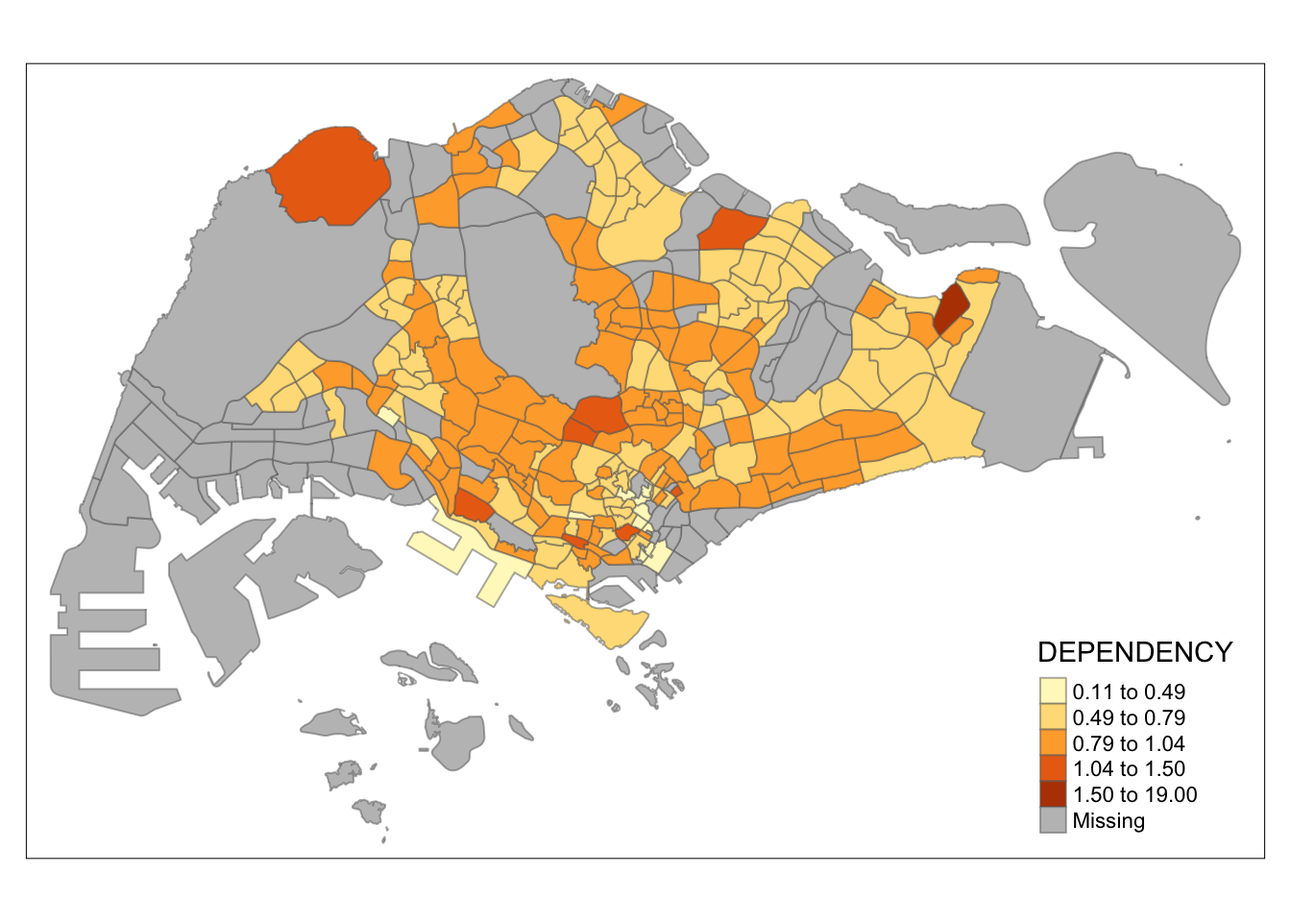
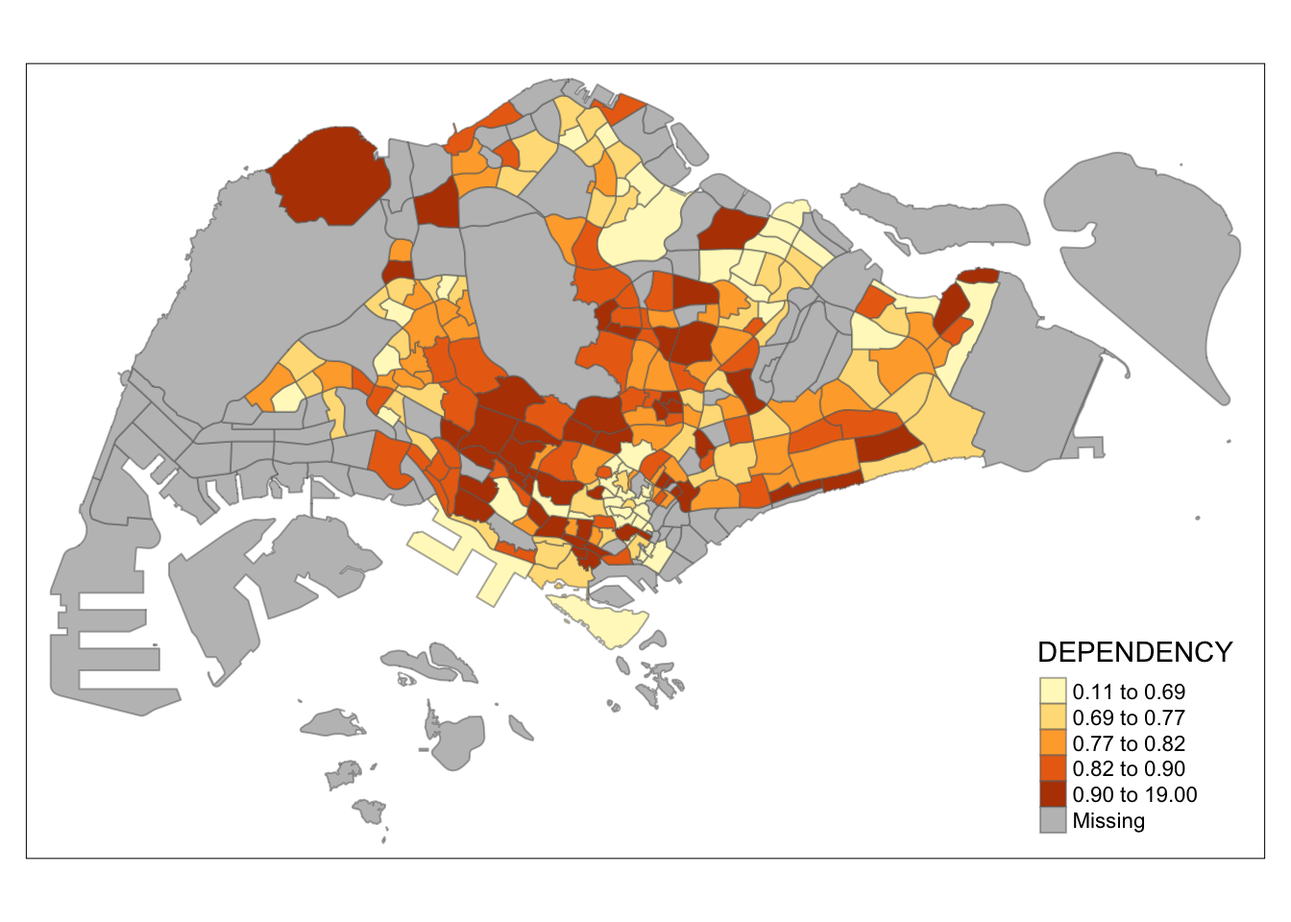
Multiple choropleth maps

Changed region(s): [[0.1875, 0.0938, 0.7812, 0.7188], [0.8125, 0.7812, 0.9375, 0.875]]

diff --git a/_site/Topics/HO10/HO10.html b/_site/Topics/HO10/HO10.html
@@ -253,6 +253,9 @@ pre > code.sourceCode > span > a:first-child::before { text-decoration: underlin
   <ul class="collapse">
   <li><a href="#qtm" id="toc-qtm" class="nav-link" data-scroll-target="#qtm">qtm()</a></li>
   <li><a href="#tmap" id="toc-tmap" class="nav-link" data-scroll-target="#tmap">tmap()</a></li>
+  <li><a href="#breaks" id="toc-breaks" class="nav-link" data-scroll-target="#breaks">Breaks</a></li>
+  <li><a href="#multiple-choropleth-plots" id="toc-multiple-choropleth-plots" class="nav-link" data-scroll-target="#multiple-choropleth-plots">Multiple Choropleth Plots</a></li>
+  <li><a href="#group-by-variable" id="toc-group-by-variable" class="nav-link" data-scroll-target="#group-by-variable">Group-by Variable</a></li>
   </ul></li>
   </ul>
 </nav>
@@ -286,7 +289,7 @@ pre > code.sourceCode > span > a:first-child::before { text-decoration: underlin
     <div>
     <div class="quarto-title-meta-heading">Modified</div>
     <div class="quarto-title-meta-contents">
-      <p class="date-modified">February 27, 2024</p>
+      <p class="date-modified">February 28, 2024</p>
     </div>
   </div>
     
@@ -569,11 +572,12 @@ Load Point
 <h2 class="anchored" data-anchor-id="tmap">tmap()</h2>
 <p>The basic building block of tmap is <code>tm_shape()</code> followed by the layer elements <code>tm_shape()</code> to define the input data and <code>tm_polygons()</code> to draw the planning subzone polygons.</p>
 <p>Note that <code>tm_polygons()</code> is a wrapper of <code>tm_fill()</code> and <code>tm_border()</code>. <code>tm_fill()</code> shades the polygons by using the default colour scheme and <code>tm_borders()</code> adds the borders of the shapefile onto the choropleth map where the <code>alpha</code> argument is used to define transparency number between 0 (totally transparent) and 1 (default; not transparent).</p>
-<p>tmap provides a total ten data classification methods, namely: fixed, sd, equal, pretty , quantile, kmeans, hclust, bclust, fisher, and jenks. The default interval binning used to draw the choropleth map is called “pretty” and the default colour scheme is YlOrRd of ColorBrewer. By default, Missing value will be shaded in grey.</p>
+<p>tmap provides a total ten data classification methods, namely: fixed, sd, equal, pretty, quantile, kmeans, hclust, bclust, fisher, and jenks. The default interval binning used to draw the choropleth map is <strong>pretty</strong> and the default colour scheme is YlOrRd of ColorBrewer. By default, Missing value will be shaded in grey.</p>
 <div class="tabset-margin-container"></div><div class="panel-tabset">
-<ul class="nav nav-tabs" role="tablist"><li class="nav-item" role="presentation"><a class="nav-link active" id="tabset-3-1-tab" data-bs-toggle="tab" data-bs-target="#tabset-3-1" role="tab" aria-controls="tabset-3-1" aria-selected="true">pretty</a></li></ul>
+<ul class="nav nav-tabs" role="tablist"><li class="nav-item" role="presentation"><a class="nav-link active" id="tabset-3-1-tab" data-bs-toggle="tab" data-bs-target="#tabset-3-1" role="tab" aria-controls="tabset-3-1" aria-selected="true">pretty</a></li><li class="nav-item" role="presentation"><a class="nav-link" id="tabset-3-2-tab" data-bs-toggle="tab" data-bs-target="#tabset-3-2" role="tab" aria-controls="tabset-3-2" aria-selected="false">quantile</a></li><li class="nav-item" role="presentation"><a class="nav-link" id="tabset-3-3-tab" data-bs-toggle="tab" data-bs-target="#tabset-3-3" role="tab" aria-controls="tabset-3-3" aria-selected="false">kmeans</a></li><li class="nav-item" role="presentation"><a class="nav-link" id="tabset-3-4-tab" data-bs-toggle="tab" data-bs-target="#tabset-3-4" role="tab" aria-controls="tabset-3-4" aria-selected="false">bclust</a></li><li class="nav-item" role="presentation"><a class="nav-link" id="tabset-3-5-tab" data-bs-toggle="tab" data-bs-target="#tabset-3-5" role="tab" aria-controls="tabset-3-5" aria-selected="false">fisher</a></li><li class="nav-item" role="presentation"><a class="nav-link" id="tabset-3-6-tab" data-bs-toggle="tab" data-bs-target="#tabset-3-6" role="tab" aria-controls="tabset-3-6" aria-selected="false">jenks</a></li></ul>
 <div class="tab-content">
 <div id="tabset-3-1" class="tab-pane active" role="tabpanel" aria-labelledby="tabset-3-1-tab">
+<p>The <strong>pretty</strong> style chooses a number of breaks not necessarily equal to n using pretty, but likely to be legible.</p>
 <div class="cell">
 <div class="sourceCode cell-code" id="cb19"><pre class="sourceCode r code-with-copy"><code class="sourceCode r"><span id="cb19-1"><a href="#cb19-1" aria-hidden="true" tabindex="-1"></a><span class="fu">tm_shape</span>(mpszpop2020)<span class="sc">+</span></span>
 <span id="cb19-2"><a href="#cb19-2" aria-hidden="true" tabindex="-1"></a>  <span class="fu">tm_polygons</span>(<span class="st">"DEPENDENCY"</span>)</span></code><button title="Copy to Clipboard" class="code-copy-button"><i class="bi"></i></button></pre></div>
@@ -581,40 +585,180 @@ Load Point
 <p><img src="HO10_files/figure-html/unnamed-chunk-12-1.png" class="img-fluid" width="672"></p>
 </div>
 </div>
-<p>a quantile data classification that used 5 classes.</p>
+</div>
+<div id="tabset-3-2" class="tab-pane" role="tabpanel" aria-labelledby="tabset-3-2-tab">
+<p>The <strong>quantile</strong> style provides quantile breaks.</p>
 <div class="cell">
 <div class="sourceCode cell-code" id="cb20"><pre class="sourceCode r code-with-copy"><code class="sourceCode r"><span id="cb20-1"><a href="#cb20-1" aria-hidden="true" tabindex="-1"></a><span class="fu">tm_shape</span>(mpszpop2020)<span class="sc">+</span></span>
 <span id="cb20-2"><a href="#cb20-2" aria-hidden="true" tabindex="-1"></a>  <span class="fu">tm_fill</span>(<span class="st">"DEPENDENCY"</span>,</span>
 <span id="cb20-3"><a href="#cb20-3" aria-hidden="true" tabindex="-1"></a>          <span class="at">n =</span> <span class="dv">5</span>,</span>
-<span id="cb20-4"><a href="#cb20-4" aria-hidden="true" tabindex="-1"></a>          <span class="at">style =</span> <span class="st">"jenks"</span>) <span class="sc">+</span></span>
+<span id="cb20-4"><a href="#cb20-4" aria-hidden="true" tabindex="-1"></a>          <span class="at">style =</span> <span class="st">"quantile"</span>) <span class="sc">+</span></span>
 <span id="cb20-5"><a href="#cb20-5" aria-hidden="true" tabindex="-1"></a>  <span class="fu">tm_borders</span>(<span class="at">alpha =</span> <span class="fl">0.5</span>)</span></code><button title="Copy to Clipboard" class="code-copy-button"><i class="bi"></i></button></pre></div>
 <div class="cell-output-display">
 <p><img src="HO10_files/figure-html/unnamed-chunk-13-1.png" class="img-fluid" width="672"></p>
 </div>
 </div>
 </div>
+<div id="tabset-3-3" class="tab-pane" role="tabpanel" aria-labelledby="tabset-3-3-tab">
+<p>The <strong>kmeans</strong> style uses kmeans to generate the breaks; it may be anchored using <code>set.seed</code>.</p>
+<div class="cell">
+<div class="sourceCode cell-code" id="cb21"><pre class="sourceCode r code-with-copy"><code class="sourceCode r"><span id="cb21-1"><a href="#cb21-1" aria-hidden="true" tabindex="-1"></a><span class="fu">tm_shape</span>(mpszpop2020)<span class="sc">+</span></span>
+<span id="cb21-2"><a href="#cb21-2" aria-hidden="true" tabindex="-1"></a>  <span class="fu">tm_fill</span>(<span class="st">"DEPENDENCY"</span>,</span>
+<span id="cb21-3"><a href="#cb21-3" aria-hidden="true" tabindex="-1"></a>          <span class="at">n =</span> <span class="dv">5</span>,</span>
+<span id="cb21-4"><a href="#cb21-4" aria-hidden="true" tabindex="-1"></a>          <span class="at">style =</span> <span class="st">"kmeans"</span>) <span class="sc">+</span></span>
+<span id="cb21-5"><a href="#cb21-5" aria-hidden="true" tabindex="-1"></a>  <span class="fu">tm_borders</span>(<span class="at">alpha =</span> <span class="fl">0.5</span>)</span></code><button title="Copy to Clipboard" class="code-copy-button"><i class="bi"></i></button></pre></div>
+<div class="cell-output-display">
+<p><img src="HO10_files/figure-html/unnamed-chunk-14-1.png" class="img-fluid" width="672"></p>
+</div>
+</div>
+</div>
+<div id="tabset-3-4" class="tab-pane" role="tabpanel" aria-labelledby="tabset-3-4-tab">
+<p>The <strong>hclust</strong> style uses hclust to generate the breaks using hierarchical clustering. The <strong>bclust</strong> style uses bclust to generate the breaks using bagged clustering.</p>
+<div class="cell">
+<div class="sourceCode cell-code" id="cb22"><pre class="sourceCode r code-with-copy"><code class="sourceCode r"><span id="cb22-1"><a href="#cb22-1" aria-hidden="true" tabindex="-1"></a><span class="fu">tm_shape</span>(mpszpop2020)<span class="sc">+</span></span>
+<span id="cb22-2"><a href="#cb22-2" aria-hidden="true" tabindex="-1"></a>  <span class="fu">tm_fill</span>(<span class="st">"DEPENDENCY"</span>,</span>
+<span id="cb22-3"><a href="#cb22-3" aria-hidden="true" tabindex="-1"></a>          <span class="at">n =</span> <span class="dv">5</span>,</span>
+<span id="cb22-4"><a href="#cb22-4" aria-hidden="true" tabindex="-1"></a>          <span class="at">style =</span> <span class="st">"bclust"</span>) <span class="sc">+</span></span>
+<span id="cb22-5"><a href="#cb22-5" aria-hidden="true" tabindex="-1"></a>  <span class="fu">tm_borders</span>(<span class="at">alpha =</span> <span class="fl">0.5</span>)</span></code><button title="Copy to Clipboard" class="code-copy-button"><i class="bi"></i></button></pre></div>
+<div class="cell-output-display">
+<p><img src="HO10_files/figure-html/unnamed-chunk-15-1.png" class="img-fluid" width="672"></p>
+</div>
+<div class="cell-output cell-output-stdout">
+<pre><code>Committee Member: 1(1) 2(1) 3(1) 4(1) 5(1) 6(1) 7(1) 8(1) 9(1) 10(1)
+Computing Hierarchical Clustering</code></pre>
+</div>
+</div>
+</div>
+<div id="tabset-3-5" class="tab-pane" role="tabpanel" aria-labelledby="tabset-3-5-tab">
+<p>The <strong>fisher</strong> style uses the algorithm proposed by W. D. Fisher (1958) and discussed by Slocum et al.&nbsp;(2005) as the Fisher-Jenks algorithm. This style will subsample by default for more than 3000 observations.</p>
+<div class="cell">
+<div class="sourceCode cell-code" id="cb24"><pre class="sourceCode r code-with-copy"><code class="sourceCode r"><span id="cb24-1"><a href="#cb24-1" aria-hidden="true" tabindex="-1"></a><span class="fu">tm_shape</span>(mpszpop2020)<span class="sc">+</span></span>
+<span id="cb24-2"><a href="#cb24-2" aria-hidden="true" tabindex="-1"></a>  <span class="fu">tm_fill</span>(<span class="st">"DEPENDENCY"</span>,</span>
+<span id="cb24-3"><a href="#cb24-3" aria-hidden="true" tabindex="-1"></a>          <span class="at">n =</span> <span class="dv">5</span>,</span>
+<span id="cb24-4"><a href="#cb24-4" aria-hidden="true" tabindex="-1"></a>          <span class="at">style =</span> <span class="st">"fisher"</span>) <span class="sc">+</span></span>
+<span id="cb24-5"><a href="#cb24-5" aria-hidden="true" tabindex="-1"></a>  <span class="fu">tm_borders</span>(<span class="at">alpha =</span> <span class="fl">0.5</span>)</span></code><button title="Copy to Clipboard" class="code-copy-button"><i class="bi"></i></button></pre></div>
+<div class="cell-output-display">
+<p><img src="HO10_files/figure-html/unnamed-chunk-16-1.png" class="img-fluid" width="672"></p>
+</div>
+</div>
+</div>
+<div id="tabset-3-6" class="tab-pane" role="tabpanel" aria-labelledby="tabset-3-6-tab">
+<p><code>jenks</code> is a quantile data classification that used 5 classes. The jenks style has been ported from Jenks’ code, and has been checked for consistency with ArcView, ArcGIS, and MapInfo</p>
+<div class="cell">
+<div class="sourceCode cell-code" id="cb25"><pre class="sourceCode r code-with-copy"><code class="sourceCode r"><span id="cb25-1"><a href="#cb25-1" aria-hidden="true" tabindex="-1"></a><span class="fu">tm_shape</span>(mpszpop2020)<span class="sc">+</span></span>
+<span id="cb25-2"><a href="#cb25-2" aria-hidden="true" tabindex="-1"></a>  <span class="fu">tm_fill</span>(<span class="st">"DEPENDENCY"</span>,</span>
+<span id="cb25-3"><a href="#cb25-3" aria-hidden="true" tabindex="-1"></a>          <span class="at">n =</span> <span class="dv">5</span>,</span>
+<span id="cb25-4"><a href="#cb25-4" aria-hidden="true" tabindex="-1"></a>          <span class="at">style =</span> <span class="st">"jenks"</span>) <span class="sc">+</span></span>
+<span id="cb25-5"><a href="#cb25-5" aria-hidden="true" tabindex="-1"></a>  <span class="fu">tm_borders</span>(<span class="at">alpha =</span> <span class="fl">0.5</span>)</span></code><button title="Copy to Clipboard" class="code-copy-button"><i class="bi"></i></button></pre></div>
+<div class="cell-output-display">
+<p><img src="HO10_files/figure-html/unnamed-chunk-17-1.png" class="img-fluid" width="672"></p>
+</div>
+</div>
+</div>
+</div>
+</div>
+</section>
+<section id="breaks" class="level2">
+<h2 class="anchored" data-anchor-id="breaks">Breaks</h2>
+<p>Breaks are computed internally or set explicitly by means of the breaks argument to the <code>tm_fill()</code>. It is a good practice to obtain descriptive statistics on the variable before setting the break points.</p>
+<div class="cell">
+<div class="sourceCode cell-code" id="cb26"><pre class="sourceCode r code-with-copy"><code class="sourceCode r"><span id="cb26-1"><a href="#cb26-1" aria-hidden="true" tabindex="-1"></a><span class="fu">summary</span>(mpszpop2020<span class="sc">$</span>DEPENDENCY)</span></code><button title="Copy to Clipboard" class="code-copy-button"><i class="bi"></i></button></pre></div>
+<div class="cell-output cell-output-stdout">
+<pre><code>   Min. 1st Qu.  Median    Mean 3rd Qu.    Max.    NA's 
+ 0.1111  0.7147  0.7866  0.8585  0.8763 19.0000      92 </code></pre>
+</div>
+</div>
+<p>Based on the output, the break points are set at 0.60, 0.70, 0.80, and 0.90. In addition, a minimum and maximum will also be set at 0 and 100. Therefore, the breaks vector is c(0, 0.60, 0.70, 0.80, 0.90, 1.00).</p>
+<div class="cell">
+<div class="sourceCode cell-code" id="cb28"><pre class="sourceCode r code-with-copy"><code class="sourceCode r"><span id="cb28-1"><a href="#cb28-1" aria-hidden="true" tabindex="-1"></a><span class="fu">tm_shape</span>(mpszpop2020)<span class="sc">+</span></span>
+<span id="cb28-2"><a href="#cb28-2" aria-hidden="true" tabindex="-1"></a>  <span class="fu">tm_fill</span>(<span class="st">"DEPENDENCY"</span>,</span>
+<span id="cb28-3"><a href="#cb28-3" aria-hidden="true" tabindex="-1"></a>          <span class="at">breaks =</span> <span class="fu">c</span>(<span class="dv">0</span>, <span class="fl">0.60</span>, <span class="fl">0.70</span>, <span class="fl">0.80</span>, <span class="fl">0.90</span>, <span class="fl">1.00</span>)) <span class="sc">+</span></span>
+<span id="cb28-4"><a href="#cb28-4" aria-hidden="true" tabindex="-1"></a>  <span class="fu">tm_borders</span>(<span class="at">alpha =</span> <span class="fl">0.5</span>)</span></code><button title="Copy to Clipboard" class="code-copy-button"><i class="bi"></i></button></pre></div>
+<div class="cell-output-display">
+<p><img src="HO10_files/figure-html/unnamed-chunk-19-1.png" class="img-fluid" width="672"></p>
 </div>
 </div>
 <div class="cell">
-<div class="sourceCode cell-code" id="cb21"><pre class="sourceCode r code-with-copy"><code class="sourceCode r"><span id="cb21-1"><a href="#cb21-1" aria-hidden="true" tabindex="-1"></a><span class="fu">tm_shape</span>(mpszpop2020)<span class="sc">+</span></span>
-<span id="cb21-2"><a href="#cb21-2" aria-hidden="true" tabindex="-1"></a>  <span class="fu">tm_fill</span>(<span class="st">"DEPENDENCY"</span>, </span>
-<span id="cb21-3"><a href="#cb21-3" aria-hidden="true" tabindex="-1"></a>          <span class="at">style =</span> <span class="st">"quantile"</span>, </span>
-<span id="cb21-4"><a href="#cb21-4" aria-hidden="true" tabindex="-1"></a>          <span class="at">palette =</span> <span class="st">"Blues"</span>,</span>
-<span id="cb21-5"><a href="#cb21-5" aria-hidden="true" tabindex="-1"></a>          <span class="at">title =</span> <span class="st">"Dependency ratio"</span>) <span class="sc">+</span></span>
-<span id="cb21-6"><a href="#cb21-6" aria-hidden="true" tabindex="-1"></a>  <span class="fu">tm_layout</span>(<span class="at">main.title =</span> <span class="st">"Distribution of Dependency Ratio by planning subzone"</span>,</span>
-<span id="cb21-7"><a href="#cb21-7" aria-hidden="true" tabindex="-1"></a>            <span class="at">main.title.position =</span> <span class="st">"center"</span>,</span>
-<span id="cb21-8"><a href="#cb21-8" aria-hidden="true" tabindex="-1"></a>            <span class="at">main.title.size =</span> <span class="fl">1.2</span>,</span>
-<span id="cb21-9"><a href="#cb21-9" aria-hidden="true" tabindex="-1"></a>            <span class="at">legend.height =</span> <span class="fl">0.45</span>, </span>
-<span id="cb21-10"><a href="#cb21-10" aria-hidden="true" tabindex="-1"></a>            <span class="at">legend.width =</span> <span class="fl">0.35</span>,</span>
-<span id="cb21-11"><a href="#cb21-11" aria-hidden="true" tabindex="-1"></a>            <span class="at">frame =</span> <span class="cn">TRUE</span>) <span class="sc">+</span></span>
-<span id="cb21-12"><a href="#cb21-12" aria-hidden="true" tabindex="-1"></a>  <span class="fu">tm_borders</span>(<span class="at">alpha =</span> <span class="fl">0.5</span>) <span class="sc">+</span></span>
-<span id="cb21-13"><a href="#cb21-13" aria-hidden="true" tabindex="-1"></a>  <span class="fu">tm_compass</span>(<span class="at">type=</span><span class="st">"8star"</span>, <span class="at">size =</span> <span class="dv">2</span>) <span class="sc">+</span></span>
-<span id="cb21-14"><a href="#cb21-14" aria-hidden="true" tabindex="-1"></a>  <span class="fu">tm_scale_bar</span>() <span class="sc">+</span></span>
-<span id="cb21-15"><a href="#cb21-15" aria-hidden="true" tabindex="-1"></a>  <span class="fu">tm_grid</span>(<span class="at">alpha =</span><span class="fl">0.2</span>) <span class="sc">+</span></span>
-<span id="cb21-16"><a href="#cb21-16" aria-hidden="true" tabindex="-1"></a>  <span class="fu">tm_credits</span>(<span class="st">"Source: Planning Sub-zone boundary from Urban Redevelopment Authorithy (URA)</span><span class="sc">\n</span><span class="st"> and Population data from Department of Statistics DOS"</span>, </span>
-<span id="cb21-17"><a href="#cb21-17" aria-hidden="true" tabindex="-1"></a>             <span class="at">position =</span> <span class="fu">c</span>(<span class="st">"left"</span>, <span class="st">"bottom"</span>))</span></code><button title="Copy to Clipboard" class="code-copy-button"><i class="bi"></i></button></pre></div>
+<div class="sourceCode cell-code" id="cb29"><pre class="sourceCode r code-with-copy"><code class="sourceCode r"><span id="cb29-1"><a href="#cb29-1" aria-hidden="true" tabindex="-1"></a><span class="fu">tm_shape</span>(mpszpop2020)<span class="sc">+</span></span>
+<span id="cb29-2"><a href="#cb29-2" aria-hidden="true" tabindex="-1"></a>  <span class="fu">tm_fill</span>(<span class="st">"DEPENDENCY"</span>, </span>
+<span id="cb29-3"><a href="#cb29-3" aria-hidden="true" tabindex="-1"></a>          <span class="at">style =</span> <span class="st">"quantile"</span>, </span>
+<span id="cb29-4"><a href="#cb29-4" aria-hidden="true" tabindex="-1"></a>          <span class="at">palette =</span> <span class="st">"Blues"</span>,</span>
+<span id="cb29-5"><a href="#cb29-5" aria-hidden="true" tabindex="-1"></a>          <span class="at">title =</span> <span class="st">"Dependency ratio"</span>) <span class="sc">+</span></span>
+<span id="cb29-6"><a href="#cb29-6" aria-hidden="true" tabindex="-1"></a>  <span class="fu">tm_layout</span>(<span class="at">main.title =</span> <span class="st">"Distribution of Dependency Ratio by planning subzone"</span>,</span>
+<span id="cb29-7"><a href="#cb29-7" aria-hidden="true" tabindex="-1"></a>            <span class="at">main.title.position =</span> <span class="st">"center"</span>,</span>
+<span id="cb29-8"><a href="#cb29-8" aria-hidden="true" tabindex="-1"></a>            <span class="at">main.title.size =</span> <span class="fl">1.2</span>,</span>
+<span id="cb29-9"><a href="#cb29-9" aria-hidden="true" tabindex="-1"></a>            <span class="at">legend.height =</span> <span class="fl">0.45</span>, </span>
+<span id="cb29-10"><a href="#cb29-10" aria-hidden="true" tabindex="-1"></a>            <span class="at">legend.width =</span> <span class="fl">0.35</span>,</span>
+<span id="cb29-11"><a href="#cb29-11" aria-hidden="true" tabindex="-1"></a>            <span class="at">frame =</span> <span class="cn">TRUE</span>) <span class="sc">+</span></span>
+<span id="cb29-12"><a href="#cb29-12" aria-hidden="true" tabindex="-1"></a>  <span class="fu">tm_borders</span>(<span class="at">alpha =</span> <span class="fl">0.5</span>) <span class="sc">+</span></span>
+<span id="cb29-13"><a href="#cb29-13" aria-hidden="true" tabindex="-1"></a>  <span class="fu">tm_compass</span>(<span class="at">type=</span><span class="st">"8star"</span>, <span class="at">size =</span> <span class="dv">2</span>) <span class="sc">+</span></span>
+<span id="cb29-14"><a href="#cb29-14" aria-hidden="true" tabindex="-1"></a>  <span class="fu">tm_scale_bar</span>() <span class="sc">+</span></span>
+<span id="cb29-15"><a href="#cb29-15" aria-hidden="true" tabindex="-1"></a>  <span class="fu">tm_grid</span>(<span class="at">alpha =</span><span class="fl">0.2</span>) <span class="sc">+</span></span>
+<span id="cb29-16"><a href="#cb29-16" aria-hidden="true" tabindex="-1"></a>  <span class="fu">tm_credits</span>(<span class="st">"Source: Planning Sub-zone boundary from Urban Redevelopment Authorithy (URA)</span><span class="sc">\n</span><span class="st"> and Population data from Department of Statistics DOS"</span>, </span>
+<span id="cb29-17"><a href="#cb29-17" aria-hidden="true" tabindex="-1"></a>             <span class="at">position =</span> <span class="fu">c</span>(<span class="st">"left"</span>, <span class="st">"bottom"</span>))</span></code><button title="Copy to Clipboard" class="code-copy-button"><i class="bi"></i></button></pre></div>
 <div class="cell-output-display">
-<p><img src="HO10_files/figure-html/unnamed-chunk-14-1.png" class="img-fluid" width="672"></p>
+<p><img src="HO10_files/figure-html/unnamed-chunk-20-1.png" class="img-fluid" width="672"></p>
+</div>
+</div>
+</section>
+<section id="multiple-choropleth-plots" class="level2">
+<h2 class="anchored" data-anchor-id="multiple-choropleth-plots">Multiple Choropleth Plots</h2>
+<div class="cell">
+<div class="sourceCode cell-code" id="cb30"><pre class="sourceCode r code-with-copy"><code class="sourceCode r"><span id="cb30-1"><a href="#cb30-1" aria-hidden="true" tabindex="-1"></a><span class="fu">tm_shape</span>(mpszpop2020)<span class="sc">+</span> </span>
+<span id="cb30-2"><a href="#cb30-2" aria-hidden="true" tabindex="-1"></a>  <span class="fu">tm_polygons</span>(<span class="fu">c</span>(<span class="st">"YOUNG"</span>,<span class="st">"AGED"</span>),</span>
+<span id="cb30-3"><a href="#cb30-3" aria-hidden="true" tabindex="-1"></a>          <span class="at">style =</span> <span class="fu">c</span>(<span class="st">"pretty"</span>, <span class="st">"pretty"</span>), </span>
+<span id="cb30-4"><a href="#cb30-4" aria-hidden="true" tabindex="-1"></a>          <span class="at">palette =</span> <span class="fu">list</span>(<span class="st">"Blues"</span>,<span class="st">"Purples"</span>)) <span class="sc">+</span></span>
+<span id="cb30-5"><a href="#cb30-5" aria-hidden="true" tabindex="-1"></a>  <span class="fu">tm_layout</span>(<span class="at">legend.position =</span> <span class="fu">c</span>(<span class="st">"right"</span>, <span class="st">"bottom"</span>))</span></code><button title="Copy to Clipboard" class="code-copy-button"><i class="bi"></i></button></pre></div>
+<div class="cell-output-display">
+<p><img src="HO10_files/figure-html/unnamed-chunk-21-1.png" class="img-fluid" width="672"></p>
+</div>
+</div>
+<div class="cell">
+<div class="sourceCode cell-code" id="cb31"><pre class="sourceCode r code-with-copy"><code class="sourceCode r"><span id="cb31-1"><a href="#cb31-1" aria-hidden="true" tabindex="-1"></a><span class="fu">tm_shape</span>(mpszpop2020)<span class="sc">+</span> </span>
+<span id="cb31-2"><a href="#cb31-2" aria-hidden="true" tabindex="-1"></a>  <span class="fu">tm_polygons</span>(<span class="fu">c</span>(<span class="st">"YOUNG"</span>,<span class="st">"AGED"</span>),</span>
+<span id="cb31-3"><a href="#cb31-3" aria-hidden="true" tabindex="-1"></a>          <span class="at">style =</span> <span class="fu">c</span>(<span class="st">"quantile"</span>, <span class="st">"quantile"</span>), </span>
+<span id="cb31-4"><a href="#cb31-4" aria-hidden="true" tabindex="-1"></a>          <span class="at">palette =</span> <span class="fu">list</span>(<span class="st">"Blues"</span>,<span class="st">"Purples"</span>)) <span class="sc">+</span></span>
+<span id="cb31-5"><a href="#cb31-5" aria-hidden="true" tabindex="-1"></a>  <span class="fu">tm_layout</span>(<span class="at">legend.position =</span> <span class="fu">c</span>(<span class="st">"right"</span>, <span class="st">"bottom"</span>))</span></code><button title="Copy to Clipboard" class="code-copy-button"><i class="bi"></i></button></pre></div>
+<div class="cell-output-display">
+<p><img src="HO10_files/figure-html/unnamed-chunk-22-1.png" class="img-fluid" width="672"></p>
+</div>
+</div>
+</section>
+<section id="group-by-variable" class="level2">
+<h2 class="anchored" data-anchor-id="group-by-variable">Group-by Variable</h2>
+<div class="cell">
+<div class="sourceCode cell-code" id="cb32"><pre class="sourceCode r code-with-copy"><code class="sourceCode r"><span id="cb32-1"><a href="#cb32-1" aria-hidden="true" tabindex="-1"></a><span class="fu">tm_shape</span>(mpszpop2020) <span class="sc">+</span></span>
+<span id="cb32-2"><a href="#cb32-2" aria-hidden="true" tabindex="-1"></a>  <span class="fu">tm_fill</span>(<span class="st">"DEPENDENCY"</span>,</span>
+<span id="cb32-3"><a href="#cb32-3" aria-hidden="true" tabindex="-1"></a>          <span class="at">style =</span> <span class="st">"quantile"</span>,</span>
+<span id="cb32-4"><a href="#cb32-4" aria-hidden="true" tabindex="-1"></a>          <span class="at">palette =</span> <span class="st">"Blues"</span>,</span>
+<span id="cb32-5"><a href="#cb32-5" aria-hidden="true" tabindex="-1"></a>          <span class="at">thres.poly =</span> <span class="dv">0</span>) <span class="sc">+</span> </span>
+<span id="cb32-6"><a href="#cb32-6" aria-hidden="true" tabindex="-1"></a>  <span class="fu">tm_facets</span>(<span class="at">by=</span><span class="st">"REGION_N"</span>, </span>
+<span id="cb32-7"><a href="#cb32-7" aria-hidden="true" tabindex="-1"></a>            <span class="at">free.coords=</span><span class="cn">TRUE</span>, </span>
+<span id="cb32-8"><a href="#cb32-8" aria-hidden="true" tabindex="-1"></a>            <span class="at">drop.shapes=</span><span class="cn">FALSE</span>) <span class="sc">+</span></span>
+<span id="cb32-9"><a href="#cb32-9" aria-hidden="true" tabindex="-1"></a>  <span class="fu">tm_layout</span>(<span class="at">legend.show =</span> <span class="cn">FALSE</span>,</span>
+<span id="cb32-10"><a href="#cb32-10" aria-hidden="true" tabindex="-1"></a>            <span class="at">title.position =</span> <span class="fu">c</span>(<span class="st">"center"</span>, <span class="st">"center"</span>), </span>
+<span id="cb32-11"><a href="#cb32-11" aria-hidden="true" tabindex="-1"></a>            <span class="at">title.size =</span> <span class="dv">20</span>) <span class="sc">+</span></span>
+<span id="cb32-12"><a href="#cb32-12" aria-hidden="true" tabindex="-1"></a>  <span class="fu">tm_borders</span>(<span class="at">alpha =</span> <span class="fl">0.5</span>)</span></code><button title="Copy to Clipboard" class="code-copy-button"><i class="bi"></i></button></pre></div>
+<div class="cell-output-display">
+<p><img src="HO10_files/figure-html/unnamed-chunk-23-1.png" class="img-fluid" width="672"></p>
+</div>
+</div>
+<div class="cell">
+<div class="sourceCode cell-code" id="cb33"><pre class="sourceCode r code-with-copy"><code class="sourceCode r"><span id="cb33-1"><a href="#cb33-1" aria-hidden="true" tabindex="-1"></a><span class="fu">tm_shape</span>(mpszpop2020[mpszpop2020<span class="sc">$</span>REGION_N<span class="sc">==</span><span class="st">"CENTRAL REGION"</span>, ])<span class="sc">+</span></span>
+<span id="cb33-2"><a href="#cb33-2" aria-hidden="true" tabindex="-1"></a>  <span class="fu">tm_fill</span>(<span class="st">"DEPENDENCY"</span>, </span>
+<span id="cb33-3"><a href="#cb33-3" aria-hidden="true" tabindex="-1"></a>          <span class="at">style =</span> <span class="st">"quantile"</span>, </span>
+<span id="cb33-4"><a href="#cb33-4" aria-hidden="true" tabindex="-1"></a>          <span class="at">palette =</span> <span class="st">"Blues"</span>, </span>
+<span id="cb33-5"><a href="#cb33-5" aria-hidden="true" tabindex="-1"></a>          <span class="at">legend.hist =</span> <span class="cn">TRUE</span>, </span>
+<span id="cb33-6"><a href="#cb33-6" aria-hidden="true" tabindex="-1"></a>          <span class="at">legend.is.portrait =</span> <span class="cn">TRUE</span>,</span>
+<span id="cb33-7"><a href="#cb33-7" aria-hidden="true" tabindex="-1"></a>          <span class="at">legend.hist.z =</span> <span class="fl">0.1</span>) <span class="sc">+</span></span>
+<span id="cb33-8"><a href="#cb33-8" aria-hidden="true" tabindex="-1"></a>  <span class="fu">tm_layout</span>(<span class="at">legend.outside =</span> <span class="cn">TRUE</span>,</span>
+<span id="cb33-9"><a href="#cb33-9" aria-hidden="true" tabindex="-1"></a>            <span class="at">legend.height =</span> <span class="fl">0.45</span>, </span>
+<span id="cb33-10"><a href="#cb33-10" aria-hidden="true" tabindex="-1"></a>            <span class="at">legend.width =</span> <span class="fl">5.0</span>,</span>
+<span id="cb33-11"><a href="#cb33-11" aria-hidden="true" tabindex="-1"></a>            <span class="at">legend.position =</span> <span class="fu">c</span>(<span class="st">"right"</span>, <span class="st">"bottom"</span>),</span>
+<span id="cb33-12"><a href="#cb33-12" aria-hidden="true" tabindex="-1"></a>            <span class="at">frame =</span> <span class="cn">FALSE</span>) <span class="sc">+</span></span>
+<span id="cb33-13"><a href="#cb33-13" aria-hidden="true" tabindex="-1"></a>  <span class="fu">tm_borders</span>(<span class="at">alpha =</span> <span class="fl">0.5</span>)</span></code><button title="Copy to Clipboard" class="code-copy-button"><i class="bi"></i></button></pre></div>
+<div class="cell-output-display">
+<p><img src="HO10_files/figure-html/unnamed-chunk-24-1.png" class="img-fluid" width="672"></p>
 </div>
 </div>
 

diff --git a/_site/index.html b/_site/index.html
@@ -400,7 +400,7 @@ Wan Kee
 </a>
 </div>
 </div>
-<div class="quarto-post image-right" data-index="4" data-listing-date-sort="1708531200000" data-listing-file-modified-sort="1709049049179" data-listing-date-modified-sort="1709049049000" data-listing-reading-time-sort="5">
+<div class="quarto-post image-right" data-index="4" data-listing-date-sort="1708531200000" data-listing-file-modified-sort="1709052378740" data-listing-date-modified-sort="1709052378000" data-listing-reading-time-sort="8">
 <div class="thumbnail">
 <p><a href="./Topics/HO10/HO10.html"> <p class="card-img-top"><img src="Topics/HO10/HO10_files/figure-html/unnamed-chunk-11-1.png"  class="thumbnail-image card-img"/></p> </a></p>
 </div>
